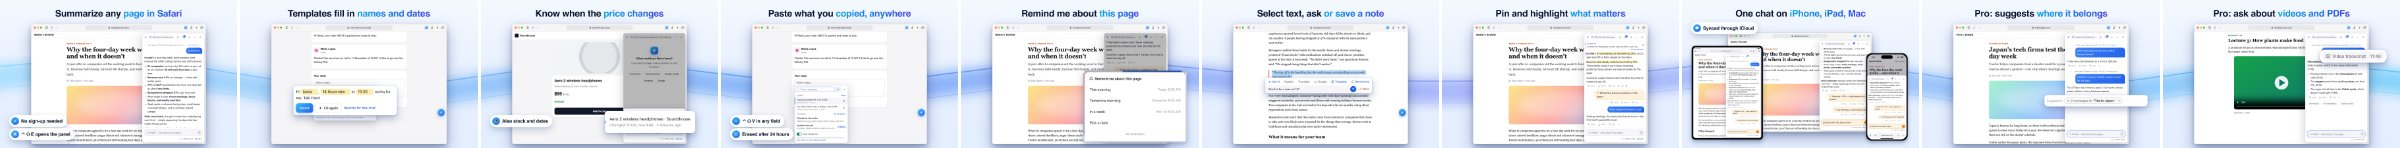
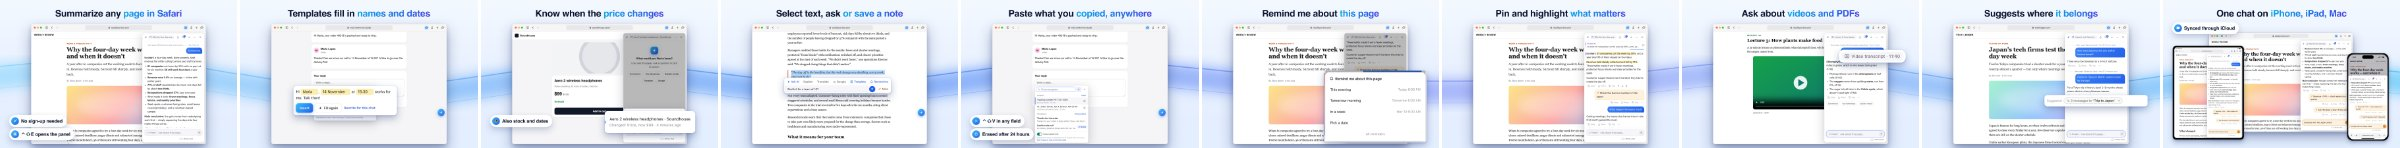
Screenshots 2.5 in the owner's order, without Pro
The owner: no Pro on the shots, lead with the most popular, then the most impressive, then depth.
- Order: summary, templates, price watch, selection, copied (the button-by-the-field fix kept), reminders,
  pins and highlights, videos and PDFs, where it belongs, one chat on three devices; files renumbered.
- Captions 8 and 9 lose "Pro:"; the panel's "Get Pro" is hidden on every shot (recaptured).

diff --git a/store/README.md b/store/README.md
@@ -148,17 +148,19 @@ New in 2.2:
 
 ## Как пересобрать скриншоты
 
-Набор 2.5: десять кадров, одинаковых на iPhone 6.9", iPad 13" и Mac, EN и RU. По порядку:
+Набор 2.5: десять кадров, одинаковых на iPhone 6.9", iPad 13" и Mac, EN и RU. Порядок задал владелец: сначала самое популярное, потом самые сильные новинки, потом глубина. Первые три кадра видны в поиске.
 1. Пересказ в Safari.
 2. Шаблон, заполненный из переписки.
 3. Слежение за ценой.
-4. «Скопированное» у поля.
-5. «Напомнить об этой странице».
-6. Выделение: вопрос или заметка.
+4. Выделение: вопрос или заметка.
+5. «Скопированное» у поля.
+6. «Напомнить об этой странице».
 7. Закреплённые и отметки.
-8. Один чат на трёх устройствах.
-9. Pro: подсказка, куда отнести ответ.
-10. Pro: видео и PDF.
+8. Вопросы к видео и PDF.
+9. Подсказка, куда отнести ответ.
+10. Один чат на трёх устройствах.
+
+Pro на кадрах не упоминается (так решил владелец): в подписях нет «Pro:», а в панели скрыта кнопка «Get Pro».
 
 Подпись каждого кадра подтверждается тем, что на нём видно. Подписи, плашки и выноски заданы в `COPY` и `SETS_25` (`tools/store/compose.mjs`), сцены — в `tools/store/capture.mjs`.
 
